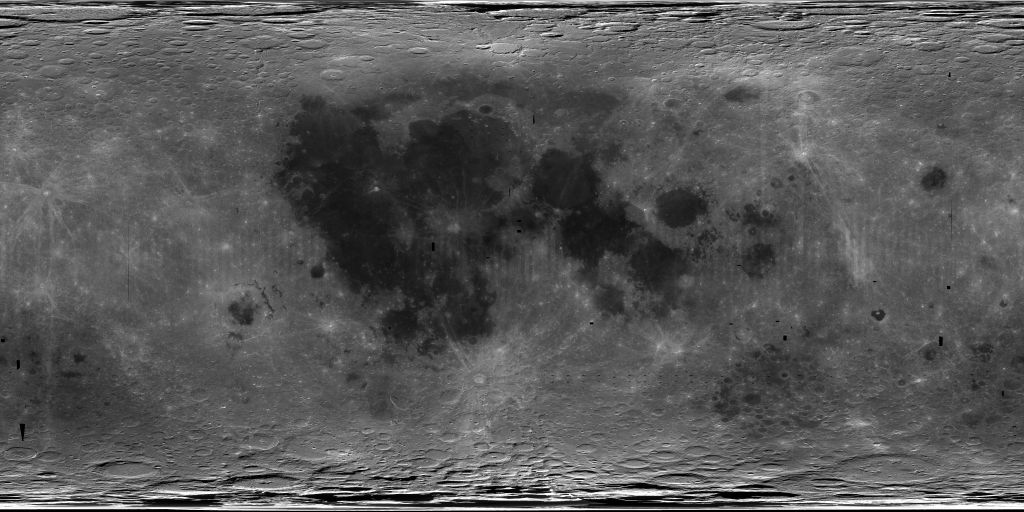
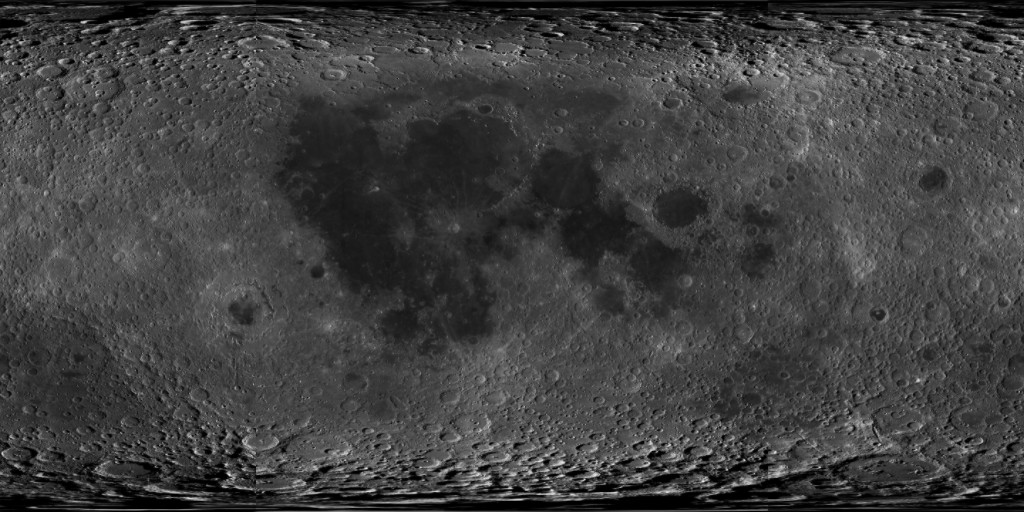
Used LRO WAC data for better maps

diff --git a/js/3d.js b/js/3d.js
@@ -19,8 +19,8 @@ var scene = new THREE.Scene();
 function loadTextures() {
     var loader = new THREE.TextureLoader()
     
-    moonColor   = loader.load('/moon/img/moon-color-patched-2048.jpg')
-    moonNormal  = loader.load('/moon/img/moon-normal-1024.jpg')
+    moonColor   = loader.load('/moon/img/moon-color.jpg')
+    moonNormal  = loader.load('/moon/img/moon-normal.jpg')
     moonBlurMap = loader.load('/moon/img/moon-blur.png')
 }
 
@@ -29,10 +29,11 @@ var moonG = new THREE.IcosahedronGeometry(100, 4);
 var moonM = new THREE.MeshStandardMaterial({
     map: moonColor,
     normalMap: moonNormal,
-    normalScale: new THREE.Vector3( 0.05, 0.05 ),
+    normalScale: new THREE.Vector3( 0.08, 0.08 ),
     roughness: 1
 });
 var moon  = new THREE.Mesh(moonG, moonM);
+moon.rotation.z = Math.PI / 2
 moon.position.set(0, -80, -95)
 scene.add(moon);
 
@@ -45,8 +46,8 @@ var moonBlur = new THREE.Mesh(moonBlurG, moonBlurM);
 moonBlur.position.set(0, -10, -95)
 scene.add(moonBlur)
 
-var light = new THREE.PointLight(0xfff0e8, 2.8);
-light.position.set(0, 1000, -1200)
+var light = new THREE.PointLight(0xfff0e8, 2);
+light.position.set(0, 1000, -1400)
 scene.add(light)
 
 function resize() {

diff --git a/js/phases.js b/js/phases.js
@@ -15,7 +15,7 @@ var phaseMoonG = new THREE.IcosahedronGeometry(100, 3)
 var phaseMoonM = new THREE.MeshStandardMaterial({
     map: moonColor,
     normalMap: moonNormal,
-    normalScale: new THREE.Vector3( 0.15, 0.15 ),
+    normalScale: new THREE.Vector3( 0.2, 0.2 ),
     roughness: 1
 });
 var phaseMoon  = new THREE.Mesh(phaseMoonG, phaseMoonM);
